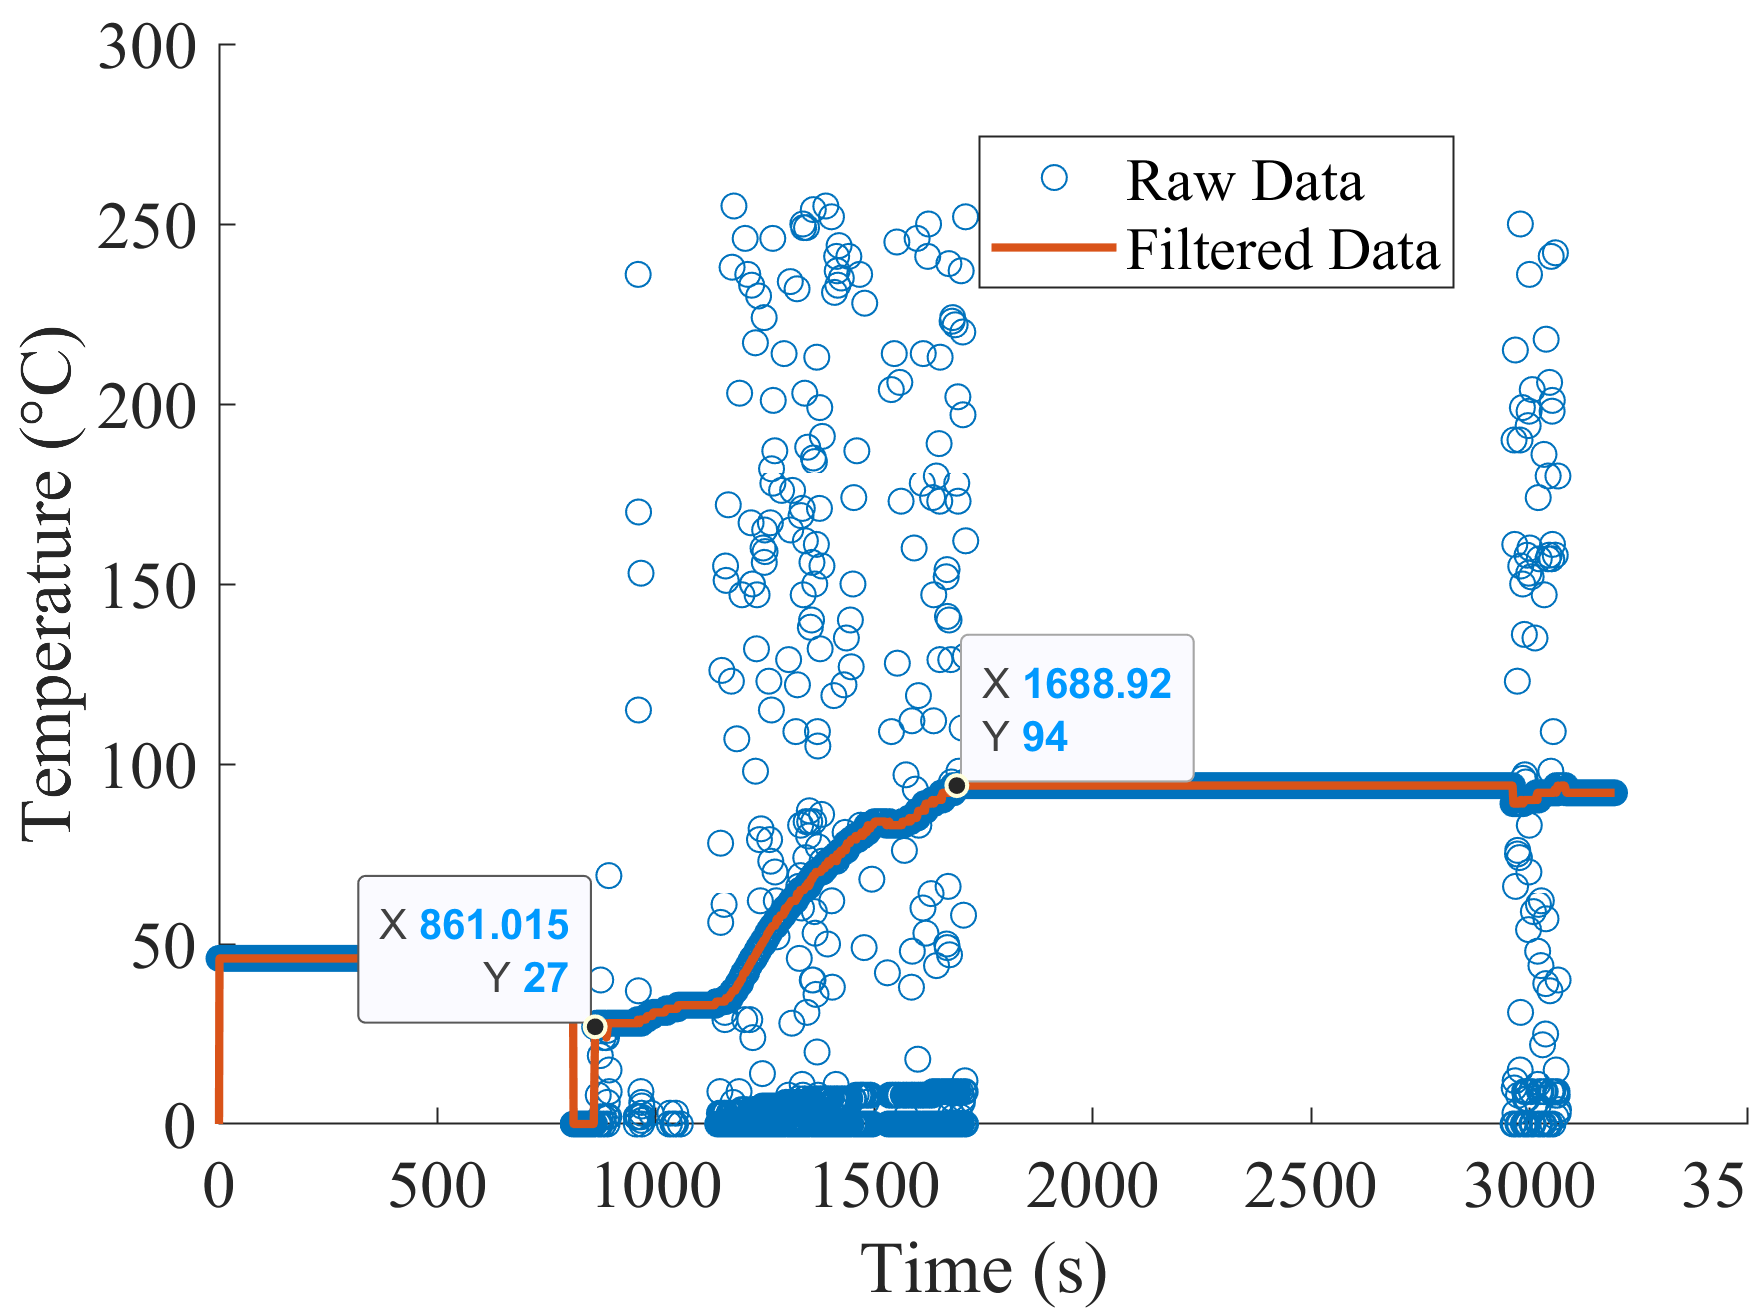
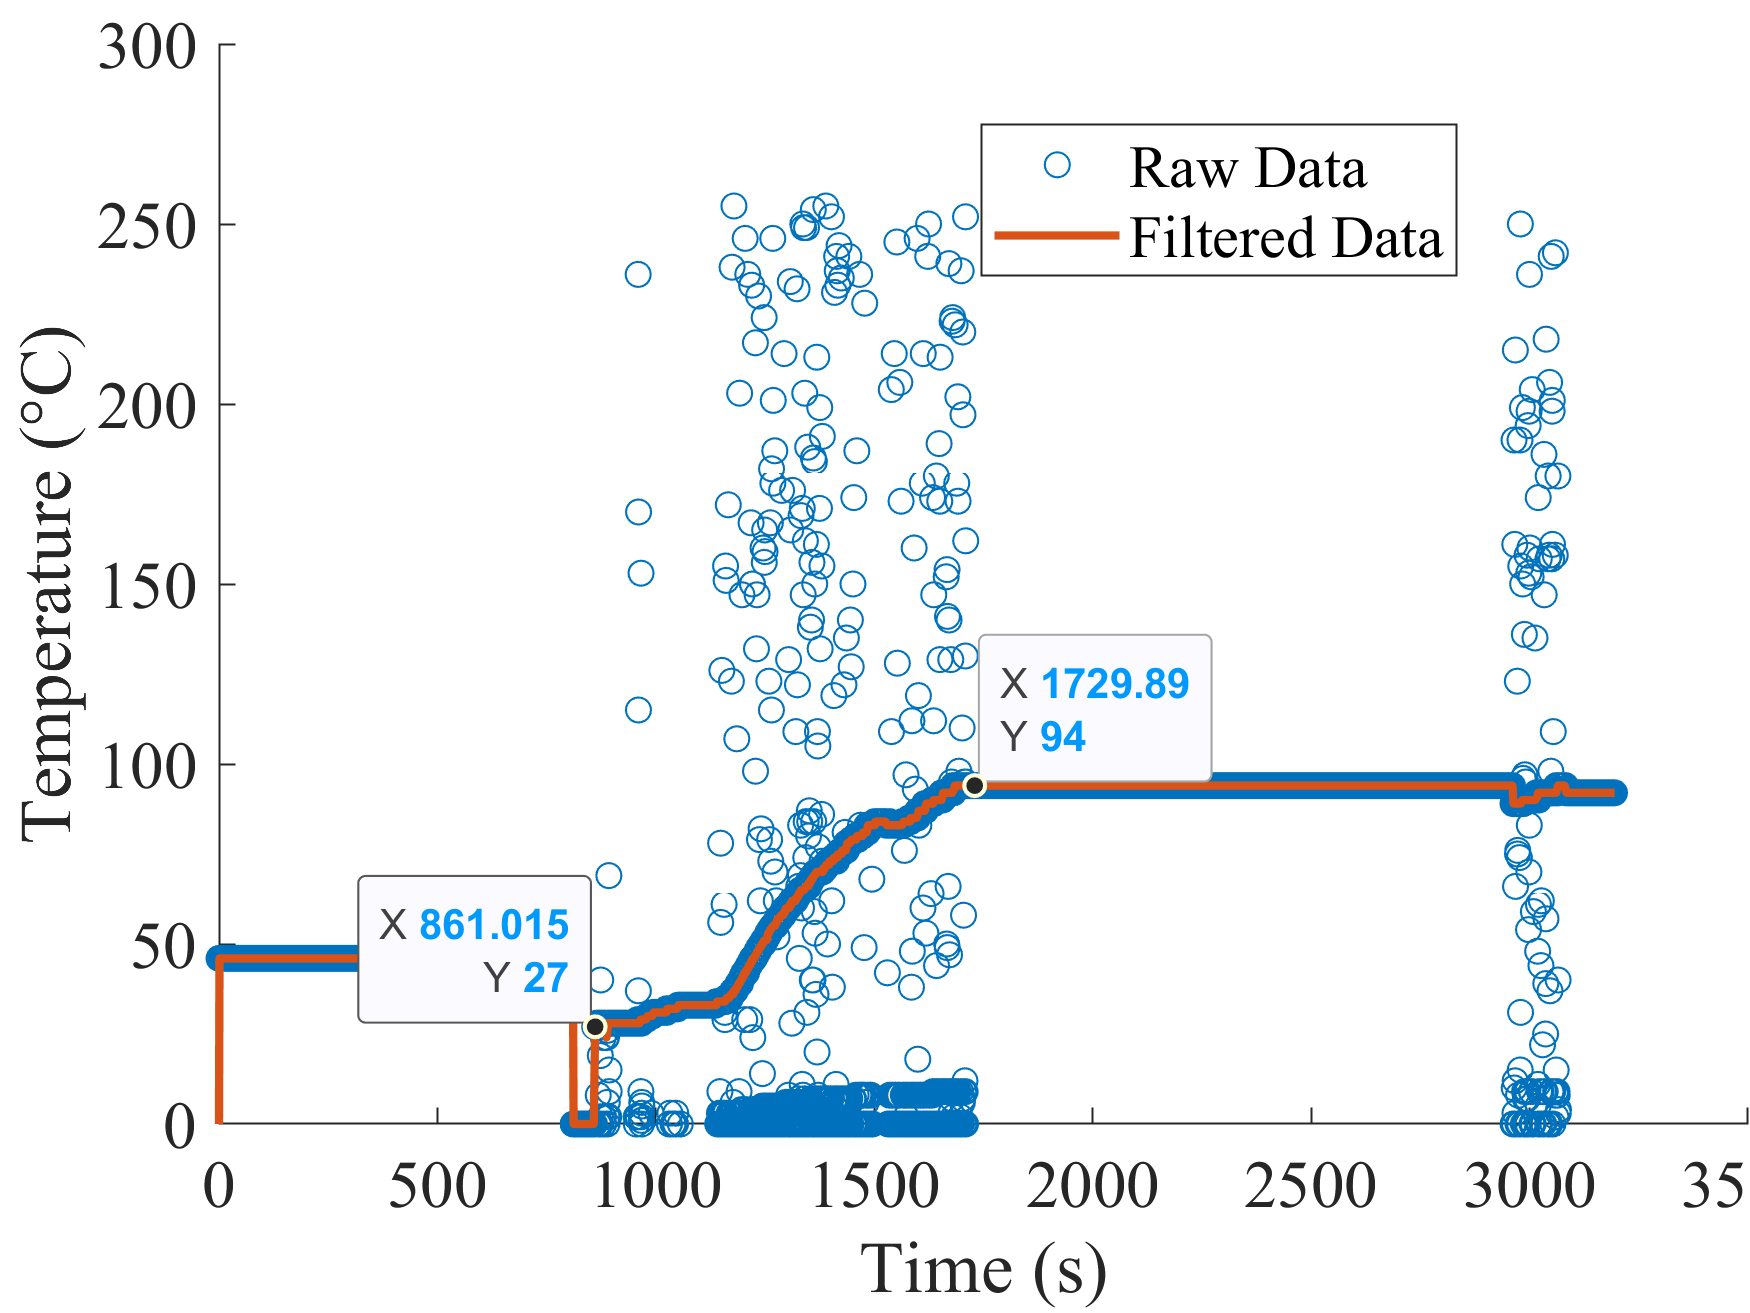
update temperature filter to be simple and effective

Changed region(s): [[0.5554, 0.0937, 0.8331, 0.2186], [0.5246, 0.4996, 0.7097, 0.6245]]

diff --git a/State Estimation/Median_Filter.m b/State Estimation/Median_Filter.m
@@ -3,17 +3,5 @@ function [Tn_filt, T0_filt]  = Median_Filter(T0_filt,Tn)
     T0_filt = [T0_filt(2:end,:); Tn];
     
     % apply filter
-    Tn_filt0 = median(T0_filt);
-
-    % initialize search
-    i = 1;
-
-    % search for nearest valid data point
-    while abs(Tn_filt0 - Tn) > 1
-        Tn = T0_filt(end-i);
-        i = i + 1;
-    end
-
-    % select nearest valid data point as official temperature
-    Tn_filt = Tn;
+    Tn_filt = median(T0_filt);
 end

diff --git a/State Estimation/test_Median_Filter.m b/State Estimation/test_Median_Filter.m
@@ -47,4 +47,5 @@ ylabel("Temperature (" + char(176) + "C)")
 legend("Raw Data","Filtered Data")
 
 %% Save Data
-save_figure(figure(1),'T_Filter','png')
+% save_figure(figure(1),'T_Filter','png')
+% save_figure(figure(1),'T_Filter_zoom','png')
